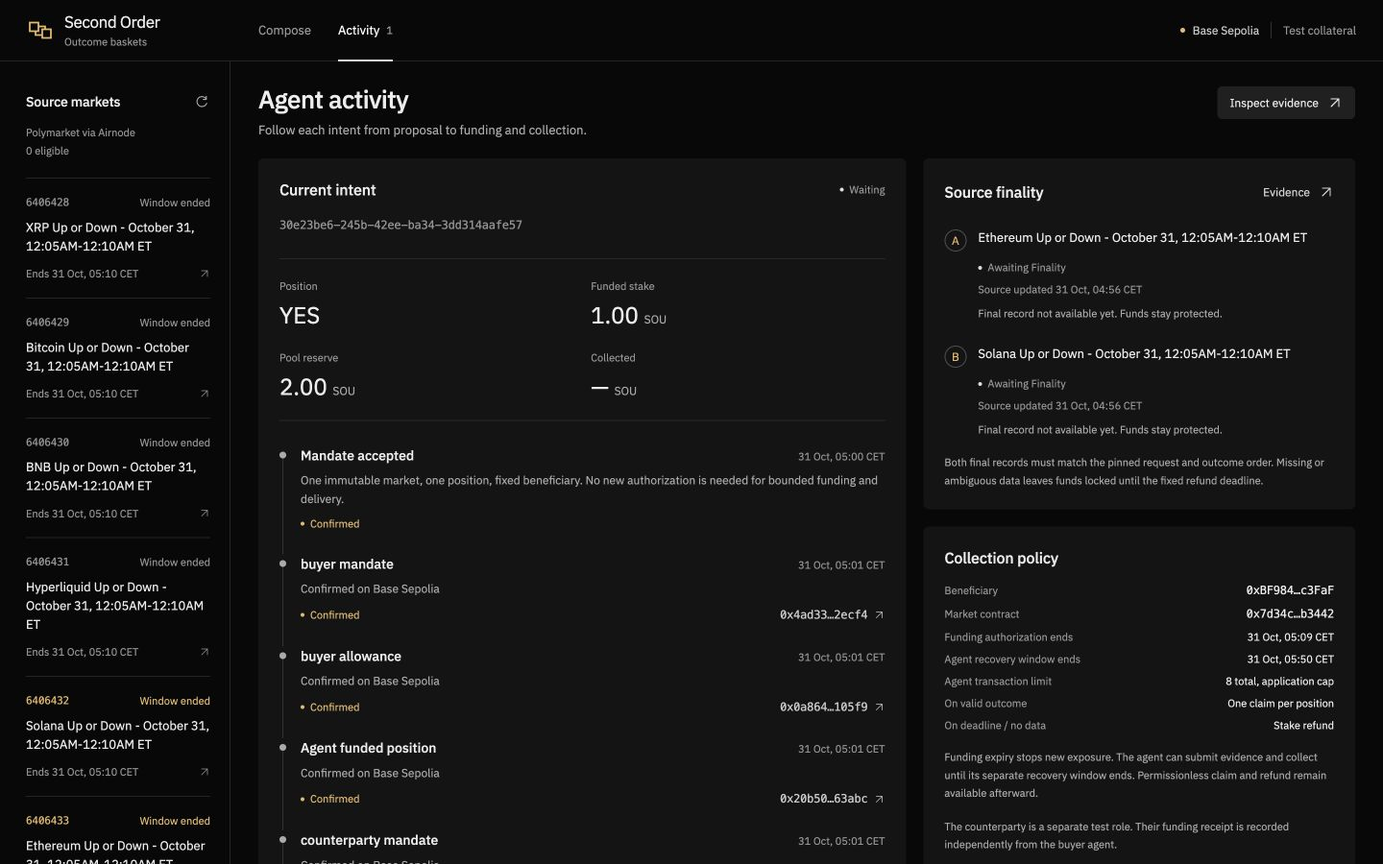
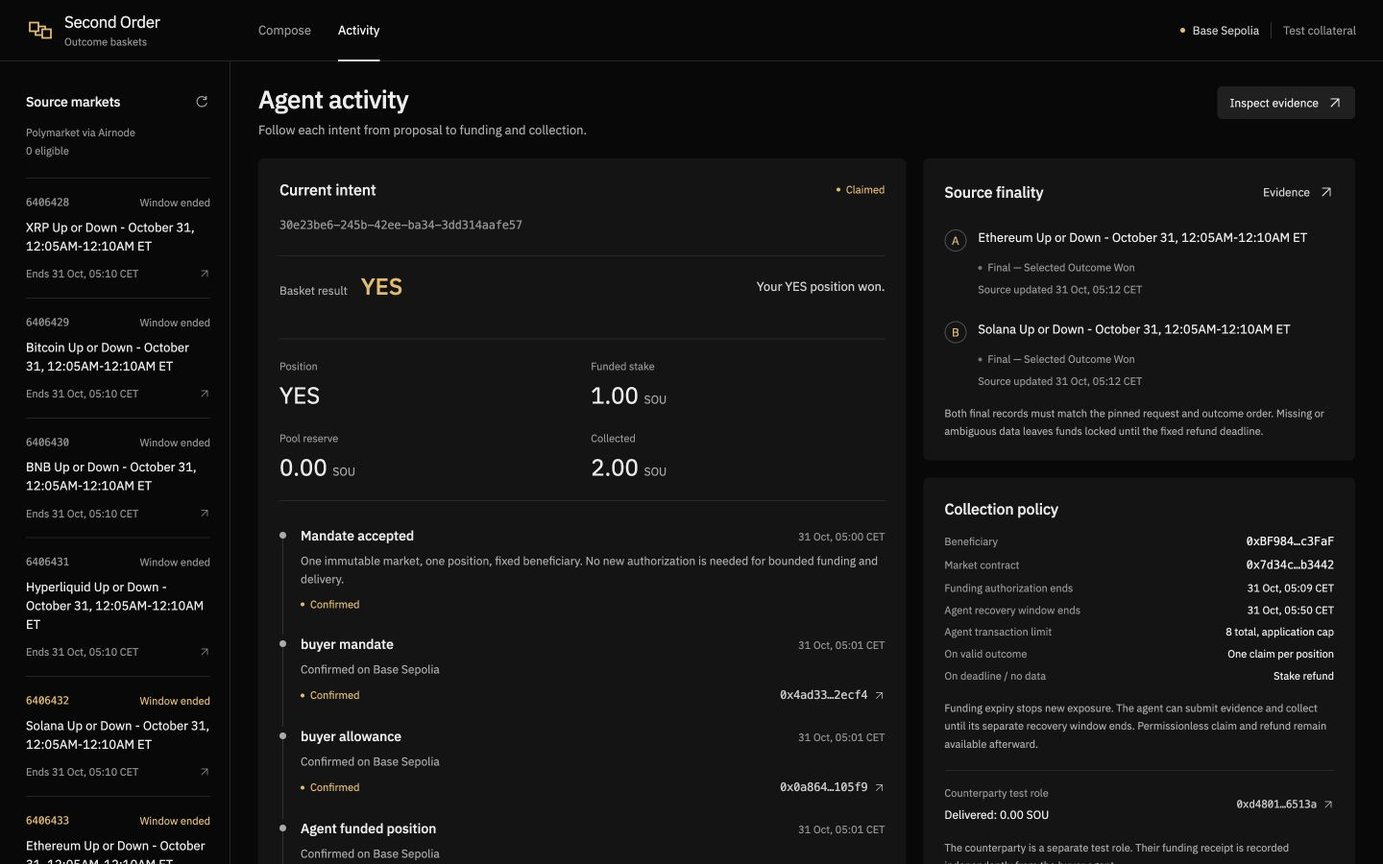
Record completed V2 settlement, claims and Goal delivery

diff --git a/MORNING_HANDOFF_V2.md b/MORNING_HANDOFF_V2.md
@@ -1,6 +1,6 @@
 # Second Order V2 — sabah teslimi
 
-**Durum: V2 kabul kriterleri ve mühendislik teslimi doğrulandı; yeni havuzun oracle sonucu ve settlement/claim PENDING.** V2, kullanıcının istediği varlık/olay/yön/zaman/AND-OR hedefini doğrular; bulunamayan hedef yerine başka varlığa pozisyon açmaz. Pilot, müşteri veya gelir iddiası yok. Bu dosya fonlama snapshot'ını anlatır; dört tamper, responsive QA, source yayını/temiz clone ve finish rule kontrolleri geçti; finality/tahsilat sonucu sonradan gerçek receipt ile güncellenmeli.
+**Durum: V2 gerçek uçtan uca tamamlandı — hedef doğrulama → ilk bounded yetki → agent funding → iki oracle kanıtı → settlement/claim.** Sonuç **YES**, buyer **2,00 SOU**, counterparty **0 SOU**, reserve **0**; **15 confirmed V2 transaction**. Gerçek V2 Goal **31 Ekim 05:17:51 Europe/Berlin / 04:17:51 UTC** tarihinde complete olarak kapatıldı (1.474 saniye, yaklaşık 25 dk). Dış pilot/müşteri/gelir iddiası yok; video ve gerçek yarışma başvurusu hâlâ PENDING.
 
 ## Açma ve korunmuş V1
 
@@ -9,7 +9,7 @@
 
 İkisi aynı sunucuda, aynı **3101** portunda. Çalışan süreç varsa ikinci sunucu açmayın. Durmuşsa proje dizininde `npm run build` ve `npm start`; temiz kurulum `npm ci`, `forge build`, `.env.example` üzerinden özel `.env`, ardından build/start. Ayrıntılar [README](README.md) içinde. Paylaşılan Ollama `qwen3:4b` ve yalnız izole Base Sepolia test rolleri kullanılır; anahtarlar UI/model/repo'ya girmez.
 
-V1, [`v1-baseline`](https://github.com/ABerkeBora/heka-second-order/tree/v1-baseline) / `8bfd72c…` ile sabit; [BASELINE_V1](BASELINE_V1.md) korunuyor. V2 branch'i **codex/next**; API `/api/next`, private runtime `.runtime/next`, evidence `evidence/v2/`. V1'in tamamlanmış 31 receipt'i ve eski state'i korunuyor. Aynı test rollerinin nonce'ları için tek global sıra/PID lock var; ayrı uygulama süreçleri başlatılmamalı. V2 farklı market ve teminat tokenı kullanıyor. Çalışan source [`b84aa61…`](https://github.com/ABerkeBora/heka-second-order/commit/b84aa61a0dc2b73975c09f92d9f0280a91a13a8d), public `codex/next` branch'ine push edildi. Bu exact commit'in temiz clone/production kontrolleri PASS; canlı settlement/claim sonucu henüz tamamlandı diye sunulmuyor.
+V1, [`v1-baseline`](https://github.com/ABerkeBora/heka-second-order/tree/v1-baseline) / `8bfd72c…` ile sabit; [BASELINE_V1](BASELINE_V1.md) korunuyor. V2 branch'i **codex/next**; API `/api/next`, private runtime `.runtime/next`, evidence `evidence/v2/`. V1'in tamamlanmış 31 receipt'i ve eski state'i korunuyor. Aynı test rollerinin nonce'ları için tek global sıra/PID lock var; ayrı uygulama süreçleri başlatılmamalı. V2 farklı market ve teminat tokenı kullanıyor. Çalışan source [`b84aa61…`](https://github.com/ABerkeBora/heka-second-order/commit/b84aa61a0dc2b73975c09f92d9f0280a91a13a8d), public `codex/next` branch'ine push edildi. Bu exact commit'in temiz clone/production kontrolleri PASS; canlı settlement ve iki claim de artık confirmed. Test edilmiş source `b84aa61…`, rapor commit'i `290de858…`; varsayılan public branch `codex/next`.
 
 ## Kullanıcı değeri ve kapsam
 
@@ -19,15 +19,16 @@ Ham hedef deterministic parse edilir; katalogda tam çift bulunur; gerçek model
 
 Hedef metni değişirse eski review/proposal ile yetki verilemez. Yetki verilmeden önce asset, recipient, beneficiary, tek/toplam integer stake, funding expiry, daha sonraki automation expiry, işlem sayısı, gas ve API fee cap'leri görünür. İlk yetkiden sonra agent gerçek funding'i başlatır; model keyfî destination/asset/calldata seçmez.
 
-## Gerçek V2 fonlaması
+## Gerçek V2 fonlama, settlement ve tahsilat
 
 Ağ **Base Sepolia / 84532**. [Market](https://sepolia.basescan.org/address/0x7d34c8ac853eaceba1306f626420bc7fe36b3442); [V2 SOU tokenı](https://sepolia.basescan.org/address/0xac32bd83e88540c4509845ad7add0c3969d5df51). SOU altı decimal ve değersiz test teminatıdır; ücretsiz Gamma verisine x402 ücreti uydurulmadı.
 
 - Intent `30e23be6-245b-42ee-ba34-3dd314aafe57`; proposal `9f16f2f2-3f6d-4bd1-a13f-022199fad70c`.
 - Gerçek **qwen3:4b / 17,259 saniye**: ham hedefle aynı ETH Up OR SOL Up, beş dakika. Kaynaklar Ethereum **6406433** ve Solana **6406432**; pencere **31 Ekim 04:05–04:10 UTC / 05:05–05:10 Europe/Berlin**.
 - İlk tarayıcı yetkisi sonrası buyer agent [YES 1,00 SOU fonladı](https://sepolia.basescan.org/tx/0x20b50e2c70cb32247320c17f66984c3c12e30d6946dc75314bad85d569163abc); ayrı seed edilmiş test karşı tarafı [NO 1,00 SOU fonladı](https://sepolia.basescan.org/tx/0xb29698970677045a0676f2a18e817ef28a0e29eeb802aeab22d93dfd47fa075e).
-- Fonlama snapshot'ında **11 confirmed V2 transaction, 2,00 SOU reserve**. Mandate tek/toplam `1000000` birim, tek funding action, sekiz agent transaction; gas/API cap ve iki expiry ilk yetkide kayıtlı. [funding-live.json](evidence/v2/funding-live.json), [model kaydı](evidence/v2/llm-intent-0698af68-c000-4c8f-8535-8c6ad65e6d2c.json), [receipt listesi](evidence/v2/transactions.json).
-- **Finality, settlement ve claim PENDING.** Bu reserve tahsilat veya kâr değildir. V1'in eski başarılı payout'u yeni V2 payout kanıtı diye kullanılmıyor.
+- **Tarihsel fonlama snapshot'ında** 11 confirmed V2 transaction ve 2,00 SOU reserve vardı. **Nihai durumda 15 confirmed V2 transaction ve reserve 0.** Mandate tek/toplam `1000000` birim, tek funding action, sekiz agent transaction; gas/API cap ve iki expiry ilk yetkide kayıtlı. [funding-live.json](evidence/v2/funding-live.json), [model kaydı](evidence/v2/llm-intent-0698af68-c000-4c8f-8535-8c6ad65e6d2c.json), [receipt listesi](evidence/v2/transactions.json).
+- Ethereum ve Solana'nın seçili Up outcome'ları kazandı. Kaynaklar **04:12:27 UTC** güncellendi; agent **04:17:11/14 UTC** [Ethereum](https://sepolia.basescan.org/tx/0x9392518fabcf764b3d502c197b27386f8695fee41b5f2629668f93e185fe784c) ve [Solana](https://sepolia.basescan.org/tx/0x245e4a22b735c519789e9491593c596362c8977b0ccc6eb5a5cc4329f9a69a44) final proof'larını otomatik gönderdi; OR **YES** ile settled oldu.
+- Agent [buyer için 2,00 SOU](https://sepolia.basescan.org/tx/0x092db333e4deede2fa162482f50c4efb4d40e3eb2bcb05dd19d45a0f8609dbdf), [counterparty için 0 SOU](https://sepolia.basescan.org/tx/0xd48011163587b43935e6d92c70c85bcfd4f2eb5b8d62a04a21509346ea76513a) claim'ini başlattı; ikisi confirmed, reserve **0**. V2 SOU bakiyeleri **6/4**, eski V1 **5/5** ve 31 receipt korunuyor. SOU değersiz test birimidir; bu sonuç müşteri kârı/gelir kanıtı değildir. [Tamamlanmış intent](evidence/v2/intent-30e23be6-245b-42ee-ba34-3dd314aafe57.json).
 
 ## Doğrulananlar ve kalan teknik kapılar
 
@@ -40,8 +41,8 @@ Ağ **Base Sepolia / 84532**. [Market](https://sepolia.basescan.org/address/0x7d
 | Namespace ve V1 uyumluluğu | **PASS**, context, farklı receipt/journal, tek sıra/lock; V1 safety/recovery/yerel Anvil refund regresyonları: [namespace-test](evidence/v2/namespace-test.json), [compatibility](evidence/v2/namespace-compatibility.json) |
 | Gerçek fonlanmış süreç restart'ı | **PASS**, aynı 11 hash, yeni stake yok, reserve 2 SOU: [restart-funded-live.json](evidence/v2/restart-funded-live.json) |
 | V2 dört deployed tamper + duplicate/budget/state | **7/7 PASS**: edited, gerçek stale, wrong request, wrong key; ayrıca duplicate intent, bütçe ve değişmeyen korunan state. [V2 rejection kaydı](evidence/v2/rejections-30e23be6-245b-42ee-ba34-3dd314aafe57.json). Salt okunur deployed RPC; broadcast/revert gas iddiası yok. Hatalı envelope UI içinde işlem/ücret olmadan reddedildi |
-| Final kaynaklar → settlement → collection/refund | **PENDING**, sabit request/deadline içinde agent takip ediyor |
-| Canlı V1/V2 izolasyonu | **44/44 PASS**, block **52487936**: V1 aynı 31 hash, buyer/counterparty eski SOU bakiyesi 5/5, eski reserve 0. [isolation-live.json](evidence/v2/isolation-live.json) |
+| Final kaynaklar → settlement → collection | **PASS**, iki Up kazandı; otomatik iki proof + buyer 2 SOU / counterparty 0 claim confirmed, reserve 0. [Completed intent](evidence/v2/intent-30e23be6-245b-42ee-ba34-3dd314aafe57.json). Fonlama anındaki 11 tx/2 SOU kaydı tarihsel snapshot olarak korunur |
+| Canlı V1/V2 izolasyonu | **44/44 PASS**, block **52492267**: V1 aynı 31 hash, buyer/counterparty eski SOU bakiyesi 5/5, eski reserve 0; V2 15 tx, phase 2, reserve 0. [isolation-live.json](evidence/v2/isolation-live.json) |
 | Responsive üretim QA | **PASS**, 1440/768/390 px, font ≥11 px, gradient/yatay taşma yok, tablet/phone küçük control yok. Tablet paneller 367,99/340 px, phone 354/354 px. [browser-qa.json](evidence/v2/browser-qa.json), `evidence/v2/screenshots/`; V1 gerçek 2 SOU claim ekranı da yeniden görüldü |
 | Public source ve temiz clone | **PASS**, exact `b84aa61…`; npm ci/typecheck/production build/forge build/start, 41 code-manifest eşleşmesi, `/`, `/next` ve iki API'de HTTP200, iki boş namespace. Gizli checkout altında bulunan `/next` 404 sorunu düzeltildi ve gerçekten yeniden test edildi. [clean-clone.json](evidence/v2/clean-clone.json) |
 | Finish rule check | **PASS**, gerçek API3 tabı aria-selected, submission/judging ve genel kurallar **05:06 Europe/Berlin / 04:06 UTC** yeniden okundu, değişiklik yok: [rules-check.json](evidence/v2/rules-check.json). Video/başvuru PENDING kalır |
@@ -51,7 +52,7 @@ Ağ **Base Sepolia / 84532**. [Market](https://sepolia.basescan.org/address/0x7d
 | | V1 | V2 |
 | --- | --- | --- |
 | Kullanıcı hedefi | Gösterilen alternatif sepet ilk yetkiden önce incelenebilir | Tam iki varlık/yön/olay/pencere/AND-OR eşleşir; alternatif pozisyon açılmaz |
-| Kanıt | Tamamlanmış 2/0 SOU OR payout, sabit baseline | Gerçek exact-target fonlama, no-action ve gate/isolation/rejection kanıtları PASS; son payout henüz PENDING |
+| Kanıt | Tamamlanmış 2/0 SOU OR payout, sabit baseline | Gerçek exact-target tam döngü: fonlama, oracle settlement, 2/0 SOU claim; ayrıca no-action/gate/isolation/rejection PASS |
 | Sunum seçimi | Korunan çalışan geri dönüş noktası | **V2 önerilir**: hedef dışı fonlamayı engeller ve gerçek fonlama kanıtına sahiptir. Yeni havuz sonucu beklerken tamamlanmış V1 payout kanıtı ayrı gösterilebilir |
 
 **Demo riski: orta.** Canlı kaynak finality/cache/API erişimi ve yerel modelin kabul/ret davranışı zamanlamayı etkiler; model yanlış ret verebilir ve uygulama no-action kalır. Bu mühendislik riski, müşteri doğrulamasıyla karıştırılmamalı: pilot, ödeme yapan müşteri, gerçek gelir veya talep kanıtı yok. V1'i riskli bir yeniden koşu için bozmayın.
@@ -68,8 +69,8 @@ Server yalnız izole test anahtarları tutar. Stake, recipient/beneficiary ve fu
 
 ## Son kısa inceleme kaydı
 
-[REVIEW_SUMMARY.json](REVIEW_SUMMARY.json), yukarıdaki aynı V1/V2 karşılaştırmasını kısa makine-okunur biçimde taşır. V1 tamamlanmış settlement/claim baseline'ıdır. V2'nin açık kabul ölçütleri gerçek hedef eşleştirme, iki no-action reddi, izole kayıtlar ve gerçek agent funding receipt'iyle PASS; yeni havuzun kaynak kesinleşmesi/tahsilatı bu kayıtta PENDING kalır. **Tercih V2, demo riski orta**: müşteri hedefi dışında pozisyon açılmasını engeller; mühendislik kanıtı vardır, dış pilot yapılmadı.
+[REVIEW_SUMMARY.json](REVIEW_SUMMARY.json), yukarıdaki aynı V1/V2 karşılaştırmasını kısa makine-okunur biçimde taşır. V1 tamamlanmış settlement/claim baseline'ıdır. V2'nin açık kabul ölçütleri gerçek hedef eşleştirme, iki no-action reddi, izole kayıtlar ve gerçek agent funding receipt'iyle PASS; yeni havuzun oracle settlement/tahsilatı da YES / 2-0 SOU / reserve 0 ile tamamlandı. **Tercih V2, demo riski orta**: müşteri hedefi dışında pozisyon açılmasını engeller; mühendislik kanıtı vardır, dış pilot yapılmadı.
 
 Kaynak hâlâ unsigned400/missing umaResolutionStatus veriyorsa beklemek doğrudur; bu imzalı bir sonuç veya yokluk kanıtı değildir. Mevcut sunucu30s worker'ı yalnız mevcut mandate içinde takip eder. Sabit deadline31Ekim05:40Europe/Berlin; çözüm yoksa void/refund, automation expiry05:50'ye kadar yetkilidir. Otomatik top-up yok. Sabah ilk küçük eylem: `/next` Activity'yi açıp son receipt'i incelemek (1dk). Sunucu bu recovery penceresi boyunca kapalı kalmışsa README'deki permissionless refund/claim komutları kullanılır; geçmiş veri silinmez.
 
-Son gerçek havuz snapshot'ı: [pool-status-at-handoff.json](evidence/v2/pool-status-at-handoff.json), 04:17UTC, 11 confirmed işlem, reserve2SOU, payout yok. Bu dış sonuç bekleyişi V2'nin açık fonlama kabul ölçütünden ayrı tutulur; tamamlanmış tahsilat gibi sunulmaz.
+[pool-status-at-handoff.json](evidence/v2/pool-status-at-handoff.json) güncel `settled-live` kaydını ve önceki `historicalWaitingSnapshot`'ı ayrı tutar. **Eski** bekleme noktasında 11 işlem, 2 SOU reserve ve payout yoktu. **Güncel** durum claimed, 15 confirmed işlem, YES, buyer 2 / counterparty 0, reserve 0: [completed intent](evidence/v2/intent-30e23be6-245b-42ee-ba34-3dd314aafe57.json).

diff --git a/docs/SUBMISSION_V2.md b/docs/SUBMISSION_V2.md
@@ -1,6 +1,6 @@
 # Second Order V2 — submission draft
 
-Draft for user review. **Video PENDING; no entry submitted.** At this snapshot, the new V2 settlement/claims remain PENDING. All four new deployed tamper rejections, duplicate/budget/protected-state checks and responsive browser QA passed. V1 historical success is not substituted for those V2 results.
+Draft for user review. **Video PENDING; no entry submitted.** The V2 run completed with YES settlement, buyer 2 SOU, counterparty 0 and zero reserve across 15 confirmed transactions. All four new deployed tamper rejections, duplicate/budget/protected-state checks and responsive browser QA passed. V1 historical success is not substituted for those V2 results.
 
 **Track:** API3 — Any API in your contract.
 **Repository:** [ABerkeBora/heka-second-order](https://github.com/ABerkeBora/heka-second-order); published V2 branch [`codex/next`](https://github.com/ABerkeBora/heka-second-order/tree/codex/next), working source [`b84aa61`](https://github.com/ABerkeBora/heka-second-order/commit/b84aa61a0dc2b73975c09f92d9f0280a91a13a8d).
@@ -21,7 +21,7 @@ Two real HTTP cases rejected a whole-week target and an absent Cardano/Ethereum 
 
 The accepted target was `Ethereum Up OR Solana Up in the same next 5-minute window.` A real `qwen3:4b` call took **17.259 seconds** and produced the same bounded normalization. Independent matching selected Ethereum 6406433 Up and Solana 6406432 Up for **31 October 2026 04:05–04:10 UTC**. It checked exact asset/event identity, condition IDs, labels/indexes, title/slug duration and absolute times, shared window and operator, then refreshed signed source proofs before preparation.
 
-After one browser delegation, the buyer agent [funded YES with 1 SOU](https://sepolia.basescan.org/tx/0x20b50e2c70cb32247320c17f66984c3c12e30d6946dc75314bad85d569163abc). The separate seeded test counterparty [funded NO with 1 SOU](https://sepolia.basescan.org/tx/0xb29698970677045a0676f2a18e817ef28a0e29eeb802aeab22d93dfd47fa075e). The snapshot contains 11 confirmed setup/funding transactions and a 2 SOU reserve. **Final settlement/collection remains PENDING here.** The counterparty is testing infrastructure, not customer demand; SOU is not revenue or profit evidence.
+After one browser delegation, the buyer agent [funded YES with 1 SOU](https://sepolia.basescan.org/tx/0x20b50e2c70cb32247320c17f66984c3c12e30d6946dc75314bad85d569163abc). The separate seeded test counterparty [funded NO with 1 SOU](https://sepolia.basescan.org/tx/0xb29698970677045a0676f2a18e817ef28a0e29eeb802aeab22d93dfd47fa075e). The historical funding snapshot contains 11 setup/funding transactions and a 2 SOU reserve. Both selected Up outcomes subsequently won: after source updates at 04:12:27 UTC, the agent submitted [Ethereum evidence](https://sepolia.basescan.org/tx/0x9392518fabcf764b3d502c197b27386f8695fee41b5f2629668f93e185fe784c) and [Solana evidence](https://sepolia.basescan.org/tx/0x245e4a22b735c519789e9491593c596362c8977b0ccc6eb5a5cc4329f9a69a44), then triggered [the buyer's 2 SOU claim](https://sepolia.basescan.org/tx/0x092db333e4deede2fa162482f50c4efb4d40e3eb2bcb05dd19d45a0f8609dbdf) and [the counterparty's 0 SOU claim](https://sepolia.basescan.org/tx/0xd48011163587b43935e6d92c70c85bcfd4f2eb5b8d62a04a21509346ea76513a). **Current status: claimed, 15 confirmed V2 transactions, YES, reserve zero.** [Completed intent](../evidence/v2/intent-30e23be6-245b-42ee-ba34-3dd314aafe57.json) records the exact delivered result; V2 token balances are 6/4 SOU, while V1 remains 5/5 with its original 31 receipts. The counterparty is testing infrastructure, not customer demand; SOU is not revenue or profit evidence.
 
 The initial mandate fixes network/asset/recipient, beneficiary, integer single/total collateral caps, one funding action, separate funding/automation expiries, eight agent transactions and gas/API budgets. The model sees no keys and chooses no arbitrary destinations, assets or calldata. On-chain intent and claim guards plus persisted exact signed transactions reconcile timeouts/restarts without a second economic execution. The actual funded restart preserved the same eleven hashes and stake.
 
@@ -37,9 +37,9 @@ The buyer and counterparty rely on that data. Forged data could choose the wrong
 
 The V2 evidence panel and documented `APP_NAMESPACE=next` response script accept judges' exact envelope bytes without trusting a backend signature filter as settlement authority. **All four V2 deployed tamper results passed**: edited value, an unmodified authentic stale response, a different request and a wrong signing key each produced the expected verifier error. Duplicate intent, over-budget and unchanged protected-state checks also passed (7/7 total): [V2 rejection report](../evidence/v2/rejections-30e23be6-245b-42ee-ba34-3dd314aafe57.json). Malformed envelope submission was rejected inline without a broadcast or fee. The final video must show one valid action and all four failures. Read-only rejection calls are distinguished from broadcast revert receipts.
 
-[Live isolation](../evidence/v2/isolation-live.json) passed 44 checks at pinned block 52487936: V1 retained its 31 hashes, original SOU balances of 5/5 and zero reserve. [Production browser QA](../evidence/v2/browser-qa.json) passed at 1440/768/390 pixels without page overflow, with loaded fonts and adequate phone/tablet controls. V1's completed 2 SOU claim remained visible.
+[Live isolation](../evidence/v2/isolation-live.json) passed 44 checks at pinned block 52492267: V1 retained its 31 hashes, original SOU balances of 5/5 and zero reserve, while V2 recorded 15 transactions, settled phase 2 and zero reserve. [Production browser QA](../evidence/v2/browser-qa.json) passed at 1440/768/390 pixels without page overflow, with loaded fonts and adequate phone/tablet controls. V1's completed 2 SOU claim remained visible.
 
-Local checks passed 46 unit tests and 20 focused production-module gate cases with dependency fixtures. Namespace and V1 compatibility checks passed, including mocked crash/expiry recovery and actual local Anvil unmatched refund. These tests do not substitute for real source signatures, V2 funded transactions or eventual settlement receipts. V1 is preserved at `v1-baseline` / `8bfd72c…`, while V2 owns `/next` and separate state/journal/evidence records with one global nonce queue.
+Local checks passed 46 unit tests and 20 focused production-module gate cases with dependency fixtures. Namespace and V1 compatibility checks passed, including mocked crash/expiry recovery and actual local Anvil unmatched refund. These local tests remain distinct from the actual source signatures and the new V2 funding/settlement/claim receipts. V1 is preserved at `v1-baseline` / `8bfd72c…`, while V2 owns `/next` and separate state/journal/evidence records with one global nonce queue.
 
 ## Missing data and trust limits
 
@@ -47,4 +47,4 @@ Observed single-market records lacked a uniformly present winner field; open rec
 
 An Airnode signature establishes source attribution and request integrity, not upstream truth, cache consistency or profitable prediction. The executor holds isolated server-side test keys; this is not a production non-custodial wallet. Gas, transaction count and automation-time caps are application checks; rollup fees are estimates and receipt costs remain real test gas. RPC availability, journal integrity and ordinary chain finality remain assumptions; deep-reorg recovery is not demonstrated. No automatic top-up, production customer adoption, BSV bridge or arbitrary new trusted API listing is claimed. Selected Gamma operations are free; no x402 fee is fabricated.
 
-The user must choose the team's one submission, record a video of at most 150 seconds and submit before **31 October 2026 15:00 Europe/Berlin**. Up to three partner tracks may be selected; this project targets API3. The [finish rule recheck](../evidence/v2/rules-check.json) at 04:06 UTC / 05:06 Europe/Berlin found no changes. Public source publication and [clean-clone checks](../evidence/v2/clean-clone.json) passed on exact commit `b84aa61…`: install/typecheck/production build/contract build/start, both routes/APIs HTTP200, two empty namespaces and 41 matching code files. An initially discovered hidden-checkout `/next` fallback failure was fixed and actually retested. Live settlement/claim remains pending, and the video/actual entry must still be completed before a full submission claim.
+The user must choose the team's one submission, record a video of at most 150 seconds and submit before **31 October 2026 15:00 Europe/Berlin**. Up to three partner tracks may be selected; this project targets API3. The [finish rule recheck](../evidence/v2/rules-check.json) at 04:06 UTC / 05:06 Europe/Berlin found no changes. Public source publication and [clean-clone checks](../evidence/v2/clean-clone.json) passed on exact commit `b84aa61…`: install/typecheck/production build/contract build/start, both routes/APIs HTTP200, two empty namespaces and 41 matching code files. An initially discovered hidden-checkout `/next` fallback failure was fixed and actually retested. Live V2 settlement and both claims completed. The video and actual entry still need completion before a full competition submission claim.

diff --git a/README.md b/README.md
@@ -124,23 +124,23 @@ node --env-file=.env scripts/submit-response.ts response.json 0 validate-open
 
 Source index1 selects the other fixed source. `MARKET_ADDRESS` may explicitly select the recorded contract; otherwise the script selects the active intent. A saved old response is expected to fail freshness. For a new valid action, discover and initialize a fresh future market rather than representing historical records as current. Manual recovery after the automation window uses `scripts/submit-response.ts - 0 refund`, followed by `scripts/submit-response.ts - 0 claim`; the immutable deadline and beneficiary still apply. The script refuses mainnet through the same chain guard.
 
-## V2 recorded integration — funding confirmed, finality pending
+## V2 recorded integration — exact target funded, settled and collected
 
 The exact target `Ethereum Up OR Solana Up in the same next 5-minute window.` passed deterministic catalogue preflight, a real `qwen3:4b` call (**17.259 seconds**) and independent model/source matching. It selected Ethereum `6406433` Up and Solana `6406432` Up for **31 October 2026, 04:05–04:10 UTC / 05:05–05:10 Europe/Berlin**.
 
 V2 market: [0x7d34c8ac853eaceba1306f626420bc7fe36b3442](https://sepolia.basescan.org/address/0x7d34c8ac853eaceba1306f626420bc7fe36b3442), Base Sepolia 84532. Separate V2 SOU collateral: [0xac32bd83e88540c4509845ad7add0c3969d5df51](https://sepolia.basescan.org/address/0xac32bd83e88540c4509845ad7add0c3969d5df51). Proposal `9f16f2f2-3f6d-4bd1-a13f-022199fad70c`; intent `30e23be6-245b-42ee-ba34-3dd314aafe57`.
 
-After one initial browser delegation, the agent [funded the buyer YES side with 1 SOU](https://sepolia.basescan.org/tx/0x20b50e2c70cb32247320c17f66984c3c12e30d6946dc75314bad85d569163abc); the separate test counterparty [funded NO with 1 SOU](https://sepolia.basescan.org/tx/0xb29698970677045a0676f2a18e817ef28a0e29eeb802aeab22d93dfd47fa075e). The funding snapshot records 11 confirmed V2 setup/funding transactions and a 2 SOU reserve. **Final settlement/claims remain PENDING; funding is not represented as a payout.** All four V2 deployed tamper cases, duplicate intent, over-budget and protected-state checks subsequently passed (7/7); read-only rejection calls did not consume a transaction fee. The current delivered state belongs in [MORNING_HANDOFF_V2](MORNING_HANDOFF_V2.md) and [TRACK_REQUIREMENTS_V2](TRACK_REQUIREMENTS_V2.md).
+After one initial browser delegation, the agent [funded the buyer YES side with 1 SOU](https://sepolia.basescan.org/tx/0x20b50e2c70cb32247320c17f66984c3c12e30d6946dc75314bad85d569163abc); the separate test counterparty [funded NO with 1 SOU](https://sepolia.basescan.org/tx/0xb29698970677045a0676f2a18e817ef28a0e29eeb802aeab22d93dfd47fa075e). The historical funding snapshot records 11 setup/funding transactions and a 2 SOU reserve. **The completed V2 run now has 15 confirmed transactions, result YES, both claims completed and reserve zero.** Both selected Up outcomes won. After source updates at 04:12:27 UTC, the agent automatically submitted [Ethereum evidence](https://sepolia.basescan.org/tx/0x9392518fabcf764b3d502c197b27386f8695fee41b5f2629668f93e185fe784c) and [Solana evidence](https://sepolia.basescan.org/tx/0x245e4a22b735c519789e9491593c596362c8977b0ccc6eb5a5cc4329f9a69a44), then triggered the [buyer's 2 SOU claim](https://sepolia.basescan.org/tx/0x092db333e4deede2fa162482f50c4efb4d40e3eb2bcb05dd19d45a0f8609dbdf) and the [counterparty's 0 SOU claim](https://sepolia.basescan.org/tx/0xd48011163587b43935e6d92c70c85bcfd4f2eb5b8d62a04a21509346ea76513a). Final V2 token balances are 6/4 SOU; original V1 balances remain 5/5 with its 31-transaction history intact. All four recorded V2 deployed tamper cases, duplicate intent, over-budget and protected-state checks passed (7/7); read-only rejection calls did not consume a transaction fee. The current delivered state belongs in [MORNING_HANDOFF_V2](MORNING_HANDOFF_V2.md) and [TRACK_REQUIREMENTS_V2](TRACK_REQUIREMENTS_V2.md).
 
 The public working source is [`b84aa61`](https://github.com/ABerkeBora/heka-second-order/commit/b84aa61a0dc2b73975c09f92d9f0280a91a13a8d). A clean GitHub checkout at that exact SHA passed npm install, typecheck, production/contract build and start on 3101. Direct `/`, `/next`, `/api/state` and `/api/next/state` all returned HTTP200; both namespaces started empty and all 41 code-manifest files matched. A hidden-checkout `/next` fallback failure was found, fixed and actually retested: [clean-clone evidence](evidence/v2/clean-clone.json). No private environment, wallet or published historical positions were copied into live state.
 
 V2 evidence:
 
-- [Actual model normalization and funded mandate](evidence/v2/funding-live.json), [runtime model output](evidence/v2/llm-intent-0698af68-c000-4c8f-8535-8c6ad65e6d2c.json), and [56-check deployed code/policy verification](evidence/v2/contract-verification.json).
+- [Completed intent, settlement and delivered result](evidence/v2/intent-30e23be6-245b-42ee-ba34-3dd314aafe57.json), [historical model normalization/funding snapshot](evidence/v2/funding-live.json), [runtime model output](evidence/v2/llm-intent-0698af68-c000-4c8f-8535-8c6ad65e6d2c.json), and [56-check deployed code/policy verification](evidence/v2/contract-verification.json).
 - [Two actual HTTP no-action cases](evidence/v2/no-action-live.json): whole-week target and absent Cardano pair rejected before any deployment/mint/approval/fund; both namespaces' positions/receipts/collateral and native balances were unchanged.
 - [Actual dirty-objective authorization HTTP400](evidence/v2/dirty-authorization-live.json): the old reviewed proposal could not fund a changed operator; journal and positions unchanged.
 - [20 focused backend guard cases](evidence/v2/backend-gates.json) exercised copied production compose/authorize/preparation modules with dependency fixtures, including source drift before collateral setup. These are not live model or chain transactions.
-- [Seven deployed rejection/protected-state checks](evidence/v2/rejections-30e23be6-245b-42ee-ba34-3dd314aafe57.json), [44 live isolation checks](evidence/v2/isolation-live.json) pinned at block 52487936, and [1440/768/390 production browser QA](evidence/v2/browser-qa.json) all passed. An invalid envelope was rejected inline without a transaction; V1 still showed its actual completed claim.
+- [Seven deployed rejection/protected-state checks](evidence/v2/rejections-30e23be6-245b-42ee-ba34-3dd314aafe57.json), [44 live isolation checks](evidence/v2/isolation-live.json) pinned at block 52492267, and [1440/768/390 production browser QA](evidence/v2/browser-qa.json) all passed. An invalid envelope was rejected inline without a transaction; V1 still showed its actual completed claim.
 - [46 pure/unit tests](evidence/v2/unit-tests.txt), [namespace isolation regression](evidence/v2/namespace-test.json), [V1 compatibility/recovery/refund checks](evidence/v2/namespace-compatibility.json), and [actual funded restart reconciliation](evidence/v2/restart-funded-live.json) preserving the same 11 transactions and stake.
 
 For a judge's V2 response, use its evidence panel, or stop the writer and select the namespace and contract explicitly:
@@ -185,7 +185,7 @@ See [contract design](docs/CONTRACT.md), [execution safety](docs/EXECUTION_SAFET
 
 The implementation targets **API3 — Any API in your contract**. Conditional BSV work did not pass its integration gate and is not claimed as a qualified track. The [V2 presentation outline](docs/PRESENTATION_V2.md) and [V2 submission draft](docs/SUBMISSION_V2.md) are preparation material; the [V1 outline](docs/PRESENTATION.md) and [V1 draft](docs/SUBMISSION.md) remain preserved. A video of at most 2.5 minutes still needs to be recorded, and the user must submit any competition entry. No entry is sent by this application.
 
-Published general rules currently allow one submission per team, with up to three partner tracks, and list **31 October 2026 at 15:00 Europe/Berlin** as the deadline. The V2 rule recheck and unresolved mandatory evidence belong in `TRACK_REQUIREMENTS_V2.md` and `MORNING_HANDOFF_V2.md`; V1 records remain in their original files. `codex/next` source publication and the exact clean-clone checks above passed. The official finish rule recheck also passed at 04:06 UTC / 05:06 Europe/Berlin with no changes: [V2 rules record](evidence/v2/rules-check.json). Live settlement/claims remain pending at this snapshot; the video and actual entry remain user actions.
+Published general rules currently allow one submission per team, with up to three partner tracks, and list **31 October 2026 at 15:00 Europe/Berlin** as the deadline. The V2 rule recheck and unresolved mandatory evidence belong in `TRACK_REQUIREMENTS_V2.md` and `MORNING_HANDOFF_V2.md`; V1 records remain in their original files. `codex/next` source publication and the exact clean-clone checks above passed. The official finish rule recheck also passed at 04:06 UTC / 05:06 Europe/Berlin with no changes: [V2 rules record](evidence/v2/rules-check.json). The new V2 settlement/claims completed with YES, buyer 2 SOU, counterparty 0 and zero reserve. The video and actual entry remain user actions.
 
 ## License
 

diff --git a/docs/PRESENTATION_V2.md b/docs/PRESENTATION_V2.md
@@ -1,6 +1,6 @@
 # Second Order V2 — 150-second recording plan
 
-A recording outline, not a finished video. At the current snapshot V2 settlement/claims remain PENDING. The four deployed tamper cases plus duplicate/budget/protected-state checks passed (7/7), and production browser QA passed at 1440/768/390 pixels. Public source `b84aa61…` passed exact clean-clone install/typecheck/production/contract build/start, including direct `/next` HTTP200. The finish rules were reread at 04:06 UTC with no changes. Update payout narration only from actual evidence before recording; a waiting source must stay visibly waiting.
+A recording outline, not a finished video. The V2 run completed: both Up outcomes won, OR settled YES, the buyer collected 2 SOU, counterparty claimed 0, and reserve is zero across 15 confirmed transactions. The four deployed tamper cases plus duplicate/budget/protected-state checks passed (7/7), and production browser QA passed at 1440/768/390 pixels. Public source `b84aa61…` passed exact clean-clone install/typecheck/production/contract build/start, including direct `/next` HTTP200. The finish rules were reread at 04:06 UTC with no changes. Use the completed V2 intent and its four final receipt links, while keeping the earlier waiting snapshot clearly historical.
 
 | Time | Screen / evidence | Point |
 | --- | --- | --- |
@@ -8,10 +8,10 @@ A recording outline, not a finished video. At the current snapshot V2 settlement
 | 0:20–0:45 | Whole-week rejection, then absent Cardano pair | “These are different no-action decisions. Both real requests left positions, collateral and transaction journals unchanged before any deploy or mint.” |
 | 0:45–1:10 | Supported ETH Up OR SOL Up review, real model and exact matched window | “The local model normalized this bounded target. Independent checks matched both assets, directions, title/slug time, ordered labels and operator. This is a narrow grammar, not arbitrary natural-language understanding.” |
 | 1:10–1:30 | Mandate, initial authorization, buyer/counterparty receipts | “One initial delegation fixes the contract, SOU asset, beneficiary, funding and automation expiry, stake and gas/action caps. The agent then funds 1 SOU; a separate test role funds the opposite side.” |
-| 1:30–1:50 | Actual final source/settlement/claim if achieved; otherwise waiting state | “The exact signed source records control the immutable rule. Missing or invalid data cannot release collateral. Show the actual delivered result and reserve only after confirmed receipts.” |
+| 1:30–1:50 | Completed ETH/SOL final proofs and two V2 claim receipts | “Both selected Up outcomes resolved. The contract applied OR and settled YES. The agent triggered the buyer's 2 SOU collection and the counterparty's 0 claim; remaining reserve is zero.” |
 | 1:50–2:15 | V2 valid action and all four tamper failures | “Edited, stale, wrong-request and wrong-key responses fail the deployed guard with expected errors. These checks are read-only RPC execution, not fabricated broadcast transactions.” |
 | 2:15–2:30 | V1 preservation, explorer and limitation | “V1 history is preserved. Authentication does not establish upstream truth or profitability. The repo documents the grammar, test wallets, exact requests and reproducible evidence.” |
 
-Show the actual V2 rejection report, not the earlier V1 result: `evidence/v2/rejections-30e23be6-245b-42ee-ba34-3dd314aafe57.json`. Live namespace isolation passed 44 checks, and malformed envelope submission was rejected inline without broadcasting.
+Show the actual V2 rejection report, not the earlier V1 result: `evidence/v2/rejections-30e23be6-245b-42ee-ba34-3dd314aafe57.json`. Live namespace isolation passed 44 checks at block 52492267, confirming V1 preservation and V2 settled reserve zero, and malformed envelope submission was rejected inline without broadcasting.
 
 Before recording, reconcile `MORNING_HANDOFF_V2.md`, `TRACK_REQUIREMENTS_V2.md` and `evidence/v2/`. The primary V2 contract is `0x7d34c8ac853eaceba1306f626420bc7fe36b3442` on Base Sepolia 84532. Do not show private environment files, keys or raw private transaction journals. No pilot/customer claim is supported. Export at most 150 seconds; the user decides whether to upload and submit it.

diff --git a/NEXT_GOAL_STATUS.md b/NEXT_GOAL_STATUS.md
@@ -1,9 +1,13 @@
 # Second Order next Goal status
 
-Status: **ACTIVE**. Real create_goal succeeded after V1 completion; get_goal returned null before creation. Thread/goal identity `01a18fd2-2049-7e02-86be-e3487e359e0b`, createdAt1793418797. Checked UTC: 2026-10-31T03:53:53.671297+00:00. No token budget set. Sol6.1/ultra unchanged.
+Status: **COMPLETE**.
+
+Real create_goal succeeded only after V1 completion and a get_goal null result. Thread/goal identity `01a18fd2-2049-7e02-86be-e3487e359e0b`, createdAt1793418797 (2026-10-31T03:53:17Z). Real update_goal returned complete at2026-10-31T04:17:51Z; subsequent get_goal returned null. Elapsed1474seconds, about25minutes. No token budget set; Sol6.1/ultra preference unchanged.
 
 Objective: Second Order V2’de kullanıcının varlık, olay, zaman ve AND/OR hedefini bounded niyet şemasına dönüştür; iki piyasanın kısıtları karşıladığını bağımsız doğrula. Karşılanamayan veya belirsiz hedef `unsupported/no-action` üretsin ve hiçbir yeni zincir fonlaması başlatmasın. V1 `/` korunurken V2 `/next` üzerinden incelensin.
 
-V1 preserved: v1-baseline ->8bfd72c6d762ce2700230361369381a089f71d2f; branchcodex/build public. V2 branchcodex/next. BASELINE_V1.md records deployments/state/evidence. All31 V1 receipts confirmed, reserve0, no pending funded job. V2 isolated namespace and new deployments required; same-key nonce serialized. Official API3/general and linked starter/contract/projection guides reread before V2 application code; TRACK_REQUIREMENTS_V2.md owns checklist.
+V1 preserved: immutable v1-baseline ->8bfd72c6d762ce2700230361369381a089f71d2f, public codex/build and BASELINE_V1.md. V1's31 confirmed receipts and5/5SOU collateral remained unchanged. V2 public default branchcodex/next; tested sourceb84aa61a0dc2b73975c09f92d9f0280a91a13a8d. Separate API/state/journal/evidence, one global nonce/executor queue.
 
-Engineering acceptance verified 2026-10-31T04:16:13.409458+00:00: actual structured model normalization and exact matching, two real no-action cases before any setup, actual delegated1SOU buyer/counterparty funding, isolated namespaces/V1 preserved, tests/QA/publication/cleanclone/rules PASS. New pool finality/collection is explicitly PENDING external state, not the V2 funding acceptance criterion. Server's bounded worker continues under the existing mandate; no completed payout claimed. Final administrative Goal completion record follows real update_goal.
+Acceptance PASS: actualqwen3:4b normalized exactETH Up OR SOL Up5min; independent matcher and fresh signed-source checks; actualwholeweek+absentADA no-action beforeallsetup andunchangedbalances; dirtyobjective400; actual bounded1SOU buyer/counterparty funding;46unit+20backendgate+56policy+7rejection+44liveisolation checks; responsiveUI, V1regression, cleanGitHubclone/directroutes, sourcepublication andAPI3/generalrulefinishgate.
+
+Closing live result also completed automatically: intent30e23be6-245b-42ee-ba34-3dd314aafe57, market0x7d34c8ac853eaceba1306f626420bc7fe36b3442. Both sourcesUp; ORYES; buyer2SOU, counterparty0, reserve0;15confirmedV2transactions. Initial waiting snapshots remain timestamped history. No pending funded jobs remain. MORNING_HANDOFF_V2.md and REVIEW_SUMMARY.json record delivery. Video and actual Devfolio entry remain user submission actions; no external pilot claimed.

diff --git a/TRACK_REQUIREMENTS_V2.md b/TRACK_REQUIREMENTS_V2.md
@@ -15,7 +15,7 @@ Official sources:
 |---|---|---|
 | AirnodeHub essential to core | Exact signed open records initialized new V2market0x7d34c8ac853eaceba1306f626420bc7fe36b3442 and enabled both real1SOU stakes. evidence/v2/funding-live.json | PASS |
 | Deployed contract verifies signer, intended request and timing | Unchanged pinned verifier; evidence/v2/contract-verification.json56PASS and rejections-30e23be6-245b-42ee-ba34-3dd314aafe57.json all7PASS, including four exact oracle custom errors | PASS |
-| Signed value drives meaningful state, duplicates protected | Real buyer1SOU fund0x20b50e2c…63abc; counterpart1SOU and reserve2 at recorded time. Actual duplicate/cap calls reject; exact pool finality still pending rather than a fabricated payout | PASS |
+| Signed value drives meaningful state, duplicates protected | Real buyer1SOU fund0x20b50e2c…63abc; counterpart1SOU and reserve2 at recorded time. Actual duplicate/cap calls reject; Actual final ETH/SOL Up/OR YES result, buyer2SOU/counterparty0 claims, reserve0; evidence/v2/intent-30e23be6-245b-42ee-ba34-3dd314aafe57.json | PASS |
 
 ## Mandatory submission
 
@@ -43,4 +43,4 @@ Deadline verified31 October2026 15:00 Europe/Berlin. Automatic TUM consideration
 
 Judging preference: originality/useful agent repeats; priced x402 only when operation actually priced. Gamma calls remain free. No profit, upstream-truth, arbitrary-listing, BSV, bridge or general NLP guarantee. Signature proves exact signer/request, not source truth. Model never sees keys or chooses arbitrary calldata. Gas/automation caps application-enforced; on-chain stake limits remain enforced. Finish gate must reopen rules and link actual evidence, carrying unresolved mandatory items into MORNING_HANDOFF_V2.md.
 
-Finish gate: 2026-10-31T04:06:28.031261+00:00 UTC, Europe/Berlin+01:00. API3+general tabs reread through real browser; no changes observed, evidence/v2/rules-check.json. Technical qualification PASS is distinct from required video and user Devfolio entry PENDING. New V2 final settlement/claim has not been claimed while its source window is still open.
+Finish gate: 2026-10-31T04:06:28.031261+00:00 UTC, Europe/Berlin+01:00. API3+general tabs reread through real browser; no changes observed, evidence/v2/rules-check.json. Technical qualification PASS is distinct from required video and user Devfolio entry PENDING. Final V2 settlement/claim subsequently completed automatically04:17UTC:15confirmedtx, both sourcesUp, ORYES, buyer2SOU/counterparty0, reserve0. Video and user entry are the only mandatory submission items still PENDING.

diff --git a/BUILD_STATUS.md b/BUILD_STATUS.md
@@ -17,3 +17,5 @@ Progress 2026-10-31T03:50:04.458443+01:00: real qwen3:4b proposal selected Ether
 2026-10-31 04:55 CET: V1 final OR run CLAIMED, actual buyer2SOU/counterparty0SOU, reserve0.31 confirmed receipts; restart does not add a transaction. Final responsive screenshots PASS at1440/768/390 with no overflow; phone/tablet active controls>=44px. Local unmatched-side engine regression voids/refunds after cutoff and preserves refunded status after automation expiry. Typecheck/build,29 contract tests,20 safety tests and crash recovery passed. Final public-source closeout underway. Next Goal remains QUEUED.
 
 V1 real Goal COMPLETE; verified publication62aa1bc… and baseline record. Subsequent work follows the separate user-authorized V2 Goal protocol.
+
+V2 realGoalCOMPLETE04:17:51UTC, about25minutes. Preserved V1baseline8bfd72c, publictestedcodeb84aa61, actual V2model/exactintent/funding/tamper/isolation + automaticfinalsettlement/claims15tx PASS, reserve0; V1still31txunchanged. See MORNING_HANDOFF_V2.md and REVIEW_SUMMARY.json. Video and user entry remain separate submission actions.
